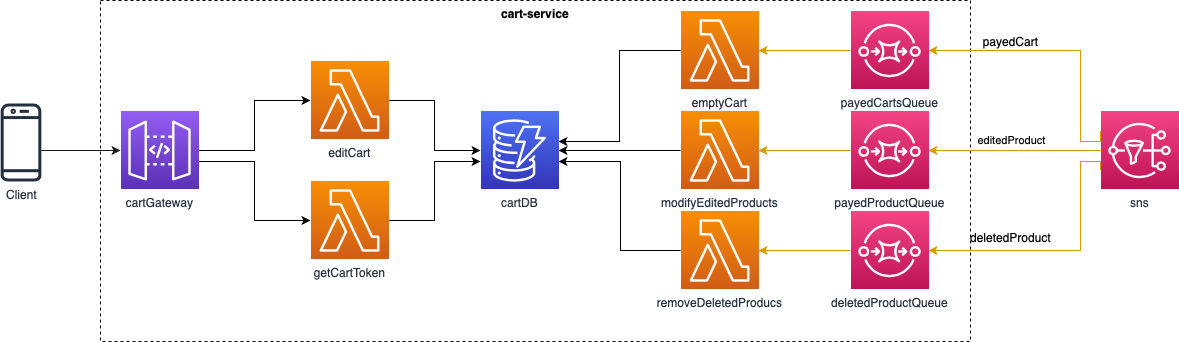
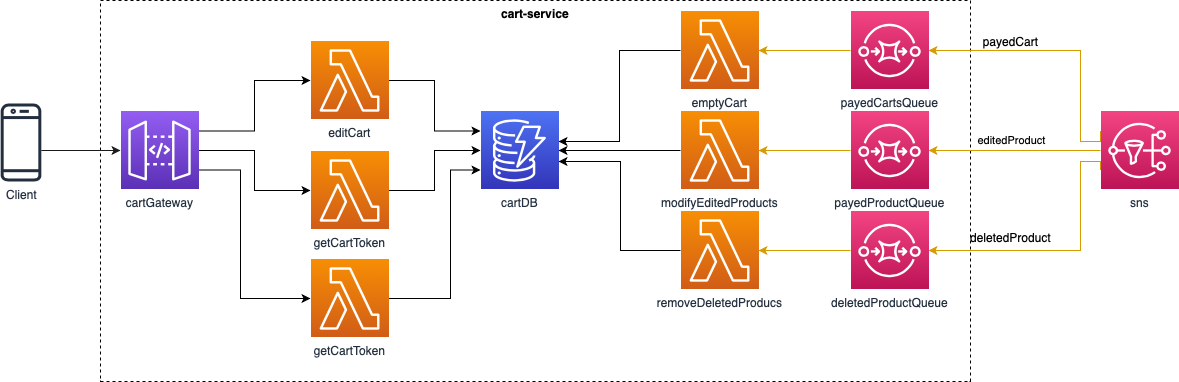
Aggiornati diagrammi e scritto lettera RA

diff --git a/DocumentiPubblici/Lettere/RA/LetteraRA.tex b/DocumentiPubblici/Lettere/RA/LetteraRA.tex
@@ -1,0 +1,58 @@
+\documentclass[12pt]{letter}
+\usepackage[utf8]{inputenc}
+\usepackage{../../../Utilita/Stilelettera}
+\usepackage{graphicx}
+\usepackage{eurosym}
+\usepackage{charter}
+\usepackage{hyperref}  
+\usepackage{xcolor}  
+
+\input{../../../Utilita/Comandi.tex}
+
+\signature{\includegraphics[scale=0.6]{../../../Immagini/N.O.S.jpg} \\
+\PC \\ 
+\textit{Responsabile di progetto}
+\href{mailto:\Mail}{\Mail}}
+
+\address{\VT \\ \CR \\ Università degli studi di Padova \\ Dipartimento di Matematica \\ Via Trieste, 63 \\ Padova 35121}
+\date{19 maggio 2021}
+
+
+\begin{document}
+
+\begin{letter}{ }
+
+\includegraphics[scale=1.5
+]{../../../Immagini/N.O.S.jpg}
+
+\opening{Gentile Prof. Vardanega,\\ Gentile Prof. Cardin, }
+
+con la presente, il gruppo 13  \Gruppo, intende comunicare ufficialmente la volontà di partecipare alla Revisione di Accettazione al fine di esporre il prodotto completo da voi commissionato. Come descritto nel \PdPv{4.0}, il preventivo di costo finale è pari a 13167\euro. 
+
+Alla presente alleghiamo i seguenti documenti:
+
+\begin{itemize}
+	\item \AdRv{4.0};
+	\item \PdQv{4.0};
+	\item \PdPv{4.0};
+	\item \NdPv{4.0};
+	\item \SdFv{2.0};
+	\item \Glossariov{4.0};
+	\item \textit{Verbali interni};
+	\item \textit{Verbali esterni}.
+\end{itemize}
+
+Il codice del prodotto, insieme alla documentazione ufficiale, è disponibile al seguente indirizzo: \\
+
+\centering{
+\url{https://github.com/NotOnlyStudents}
+}
+
+Per qualunque chiarimento o problema, rimaniamo a completa disposizione.
+\closing{Cordiali saluti, }
+
+\vspace{2em}
+
+\end{letter}
+
+\end{document}
